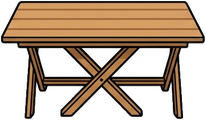
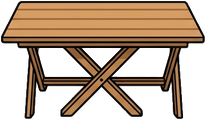
코인빨래방: 탁자 그림 누끼 — 다리 사이 흰 배경 지움
table.png 의 다리 사이 세 군데(2,400픽셀)에 흰 배경이 남아 있어
바닥이 안 비쳤다. 지우고 가장자리 흰 잔털도 정리했다.

그림 파일은 이름이 그대로라 브라우저가 옛 것을 물고 있으므로
img 주소에 판 번호(IMGV)를 붙였다. 앞으로 그림을 고치면 이 번호를 올린다.

diff --git a/games/coinwash/play/js/game.js b/games/coinwash/play/js/game.js
@@ -15,13 +15,14 @@
   const CUST_ALL = ['cust1', 'cust2', 'cust3', 'cust4', 'cust5', 'cust6', 'cust7', 'cust8'];
   const NAMES = ['washer', 'exch', 'table', 'basket', 'bench', 'vending', 'plant', 'pile', 'folded', 'coin', 'coinbag', 'toolbox', 'wall', 'owner', 'drunk', 'drunkz', 'kicker', 'thief', 'blanket', 'sleeper', 'cctv', 'neon', 'folder', 'puddle', 'clerk_face'].concat(CUST_ALL);
   const IMG = {}; let loaded = 0;
-  NAMES.forEach(n => { const im = new Image(); im.onload = () => { im.ok = true; loaded++; }; im.onerror = () => { loaded++; }; im.src = 'img/' + n + '.png'; IMG[n] = im; });
+  const IMGV = '?v=2';   // 그림을 고치면 이 번호를 올린다 (브라우저가 옛 그림을 물고 있다)
+  NAMES.forEach(n => { const im = new Image(); im.onload = () => { im.ok = true; loaded++; }; im.onerror = () => { loaded++; }; im.src = 'img/' + n + '.png' + IMGV; IMG[n] = im; });
   const ok = n => IMG[n] && IMG[n].ok;
   const ANIMS = ['idle', 'walk', 'fix', 'fold', 'sleep'], FRAMES = {}, FPS = 6;
   const PEOPLE = ['owner', 'drunk', 'kicker', 'thief', 'blanket'].concat(CUST_ALL);
   PEOPLE.forEach(n => { FRAMES[n] = {}; ANIMS.forEach(a => {
     const list = []; FRAMES[n][a] = list;
-    const probe = k => { const im = new Image(); im.onload = () => { im.ok = true; list.push(im); if (k < 30) probe(k + 1); }; im.onerror = () => { }; im.src = 'img/' + n + '/' + a + '_' + String(k).padStart(2, '0') + '.png'; };
+    const probe = k => { const im = new Image(); im.onload = () => { im.ok = true; list.push(im); if (k < 30) probe(k + 1); }; im.onerror = () => { }; im.src = 'img/' + n + '/' + a + '_' + String(k).padStart(2, '0') + '.png' + IMGV; };
     probe(1);
   }); });
   function frameOf(name, anim, clock) {
@@ -564,7 +565,7 @@
         const lv = S.up[it.id], max = lv >= it.price.length, price = max ? 0 : priceOf(it), can = canBuy(it);
         const d = document.createElement('div'); d.className = 'item' + (max ? ' max' : can ? '' : ' no');
         const name = it.id === 'branch' ? (max ? T('4호점', 'Branch 4') : branchName()) : T(it.ko, it.en);
-        const icon = it.img && ok(it.img) ? '<div class="ic pic"><img src="img/' + it.img + '.png" alt=""></div>' : '<div class="ic">' + it.ic + '</div>';
+        const icon = it.img && ok(it.img) ? '<div class="ic pic"><img src="img/' + it.img + '.png' + IMGV + '" alt=""></div>' : '<div class="ic">' + it.ic + '</div>';
         d.innerHTML = icon + '<div class="n">' + name + '<small>' + (it.price.length > 1 && it.id !== 'branch' ? 'Lv ' + lv + ' / ' + it.price.length : (max ? '✓' : '')) + '</small></div><div class="p">' + (max ? 'MAX' : '🪙 ' + price) + '</div>';
         if (can) d.addEventListener('click', () => { S.money -= price; S.up[it.id]++; SND.play('coins'); SND.play('nice'); applyUpgrade(it.id); save(); renderPanel(); toast(it.id === 'branch' ? '🏪' : 'NICE', false, 900); });
         wrap.appendChild(d);
@@ -575,7 +576,7 @@
       for (const k of CUST_ALL.concat(['blanket', 'clerk'])) {
         const img = k === 'clerk' ? 'clerk_face' : k; if (!ok(img)) continue; const r = S.reg[k], h = r ? heartsOf(k) : 0, met = r && r.n > 0;
         const d = document.createElement('div'); d.className = 'card' + (met ? '' : ' none');
-        d.innerHTML = '<img src="img/' + img + '.png" alt=""><div class="nm">' + (met ? T(REG_NAMES[k][0], REG_NAMES[k][1]) : '???') + '</div><div class="hs">' + '♥'.repeat(h) + '♡'.repeat(5 - h) + '</div><div class="cnt">' + (met ? '× ' + r.n : '') + '</div>';
+        d.innerHTML = '<img src="img/' + img + '.png' + IMGV + '" alt=""><div class="nm">' + (met ? T(REG_NAMES[k][0], REG_NAMES[k][1]) : '???') + '</div><div class="hs">' + '♥'.repeat(h) + '♡'.repeat(5 - h) + '</div><div class="cnt">' + (met ? '× ' + r.n : '') + '</div>';
         wrap.appendChild(d);
       }
       body.appendChild(wrap);

diff --git a/games/coinwash/index.html b/games/coinwash/index.html
@@ -101,7 +101,7 @@
       <a class="backlink" href="/games/">← 무료게임 목록</a>
       <div class="gp-shot"><img src="/assets/coinwash-shot.webp?v=2" alt="밤 빨래방 타일 바닥에 세탁기 세 대와 초록 환전기, 파란 의자가 있고 앞치마를 두른 주인이 서 있으며 위에 코인빨래방 제목과 OPEN 24 HOURS 부제가 있다" width="800" height="500"></div>
       <h1>코인빨래방 COIN LAUNDRY 24</h1>
-      <p class="gp-cta"><a class="btn btn-primary" href="play/?v=20260910f">🎮 바로 플레이</a></p>
+      <p class="gp-cta"><a class="btn btn-primary" href="play/?v=20260910g">🎮 바로 플레이</a></p>
       <p class="gp-line">코인빨래방은 24시간 코인빨래방을 굴려 빚 3,000코인을 갚는 방치형 경영게임입니다. 설치 없이 웹에서 바로 하는 무료게임입니다.</p>
       <p class="gp-body">저녁 6시, 빚 3,000코인이 딸린 코인빨래방을 떠안았습니다. 손님은 알아서 들어와 세탁기에 동전을 넣고 돌립니다. 동전은 세탁기 통에 쌓이고, 세탁기를 탭하면 동전이 튀어 올라 지갑으로 날아갑니다. 다 된 빨래를 탭하면 개켜서 탁자에 올리고, 손님이 찾아가며 팁을 놓고 갑니다. 고장 난 세탁기는 세 번 탭해서 고치고, 새벽 2시부터 5시까지 오는 취객·발차기·도둑은 탭으로 쫓습니다.</p>
       <p class="gp-body">상점에서 설비 열여덟 가지를 삽니다. 세탁기는 여덟 대까지 늘고, 고속 모터와 고급 세제로 회전과 요금이 오릅니다. 빨래 탁자를 더 놓으면 개어 놓을 자리가 늘어 빨래가 밀리지 않습니다. 동전 카트를 사면 주인이 알아서 수금하고, 공구함은 수리, 대걸레는 청소, 빨래 개는 기계는 개키기를 맡아 손을 뗄 수 있습니다. CCTV를 달면 도둑이 안 오고 네온 간판은 손님을 부릅니다. 점원 준호가 상점을 지키며 시간과 날씨에 따라 다른 얘기를 하고, 하트가 쌓이면 값을 깎아 줍니다.</p>

diff --git a/en/games/coinwash/index.html b/en/games/coinwash/index.html
@@ -100,7 +100,7 @@
       <a class="backlink" href="/en/games/">← All free games</a>
       <div class="gp-shot"><img src="/assets/coinwash-shot-en.webp?v=2" alt="A night laundromat with tiled floor, three washers, a green coin changer and blue chairs, an aproned owner standing in the middle, under the title COIN LAUNDRY 24 and the line OPEN 24 HOURS" width="800" height="500"></div>
       <h1>COIN LAUNDRY 24</h1>
-      <p class="gp-cta"><a class="btn btn-primary" href="/games/coinwash/play/?lang=en&amp;v=20260910f">🎮 Play now</a></p>
+      <p class="gp-cta"><a class="btn btn-primary" href="/games/coinwash/play/?lang=en&amp;v=20260910g">🎮 Play now</a></p>
       <p class="gp-line">Coin Laundry 24 is a free idle laundromat game: you run a 24-hour coin laundromat and pay off a 3,000-coin debt. It runs in your browser with nothing to install.</p>
       <p class="gp-body">It is 6 p.m. and you have just taken over a coin laundromat that comes with a 3,000-coin debt. Customers walk in on their own, drop coins into a washer and start it. The coins pile up inside each machine, and when you tap a washer they burst out and fly into your wallet. Tap a finished load to fold it onto the table, and the customer picks it up and leaves a tip. A broken washer takes three taps to fix, and the drunk, the kicker and the thief who show up between 2 and 5 a.m. get thrown out with a tap.</p>
       <p class="gp-body">The shop sells eighteen upgrades. Washers go up to eight, and the fast motor and premium soap raise the speed and the price. A rack adds room to stack folded laundry, so clean loads never pile up. The coin cart makes the owner collect on his own, the toolbox handles repairs, the mop handles cleaning and the folding machine handles folding, so you can take your hands off. CCTV keeps the thief away and the neon sign brings more customers. Junho the clerk runs the shop, says something different depending on the hour and the weather, and knocks the prices down once he likes you.</p>

diff --git a/games/coinwash/play/index.html b/games/coinwash/play/index.html
@@ -158,7 +158,7 @@
 <script src="assets/game-home.js" data-top="6" data-left="6" data-fullscreen="1" defer></script>
 <script src="assets/landscape.js?v=48"></script>
 <script src="js/audio.js?v=3"></script>
-<script src="js/game.js?v=33"></script>
+<script src="js/game.js?v=34"></script>
 <script src="/assets/visit.js?v=11" defer></script>
 <script src="/assets/game-events.js?v=1" defer></script>
 </body>
